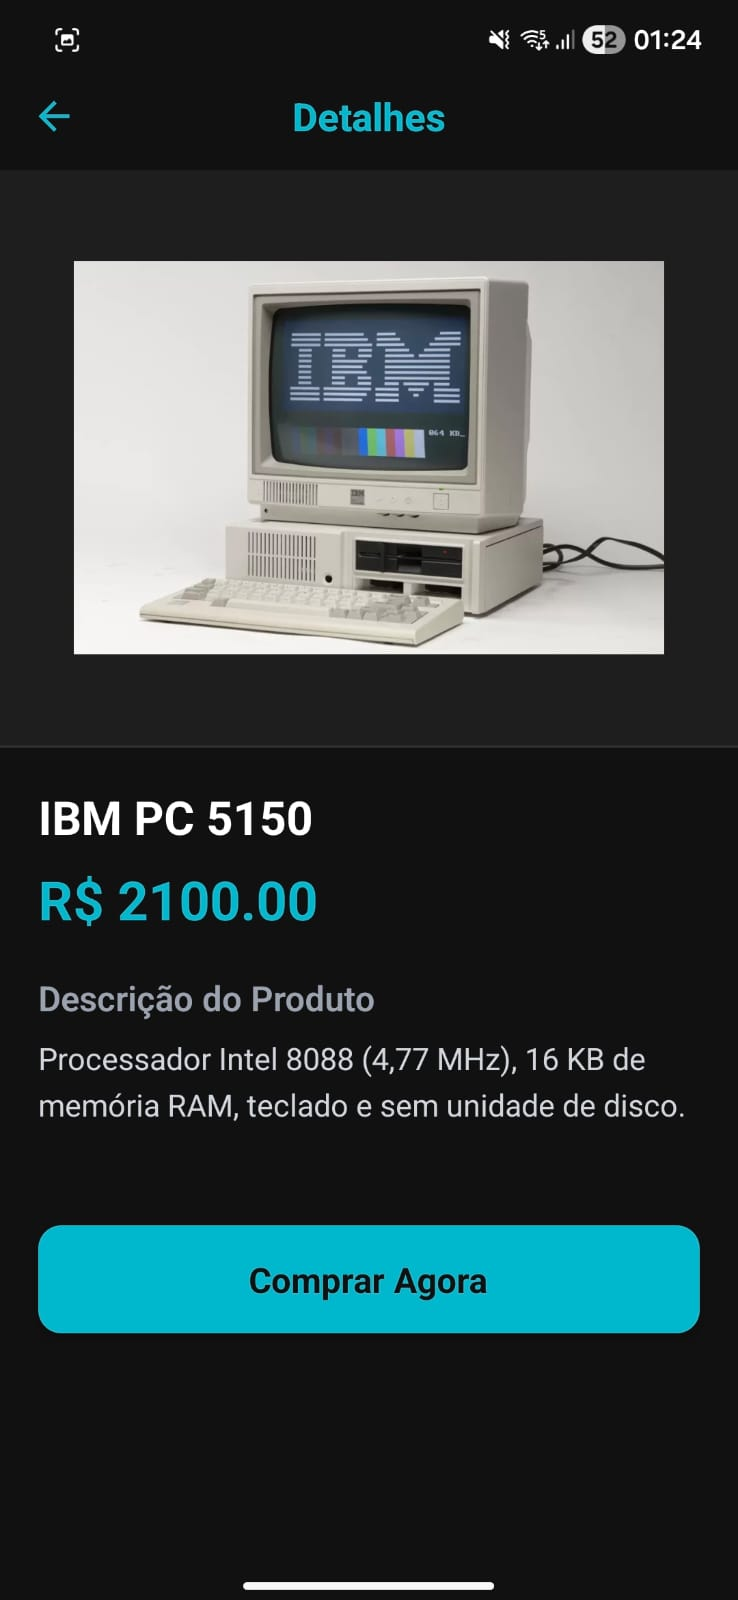
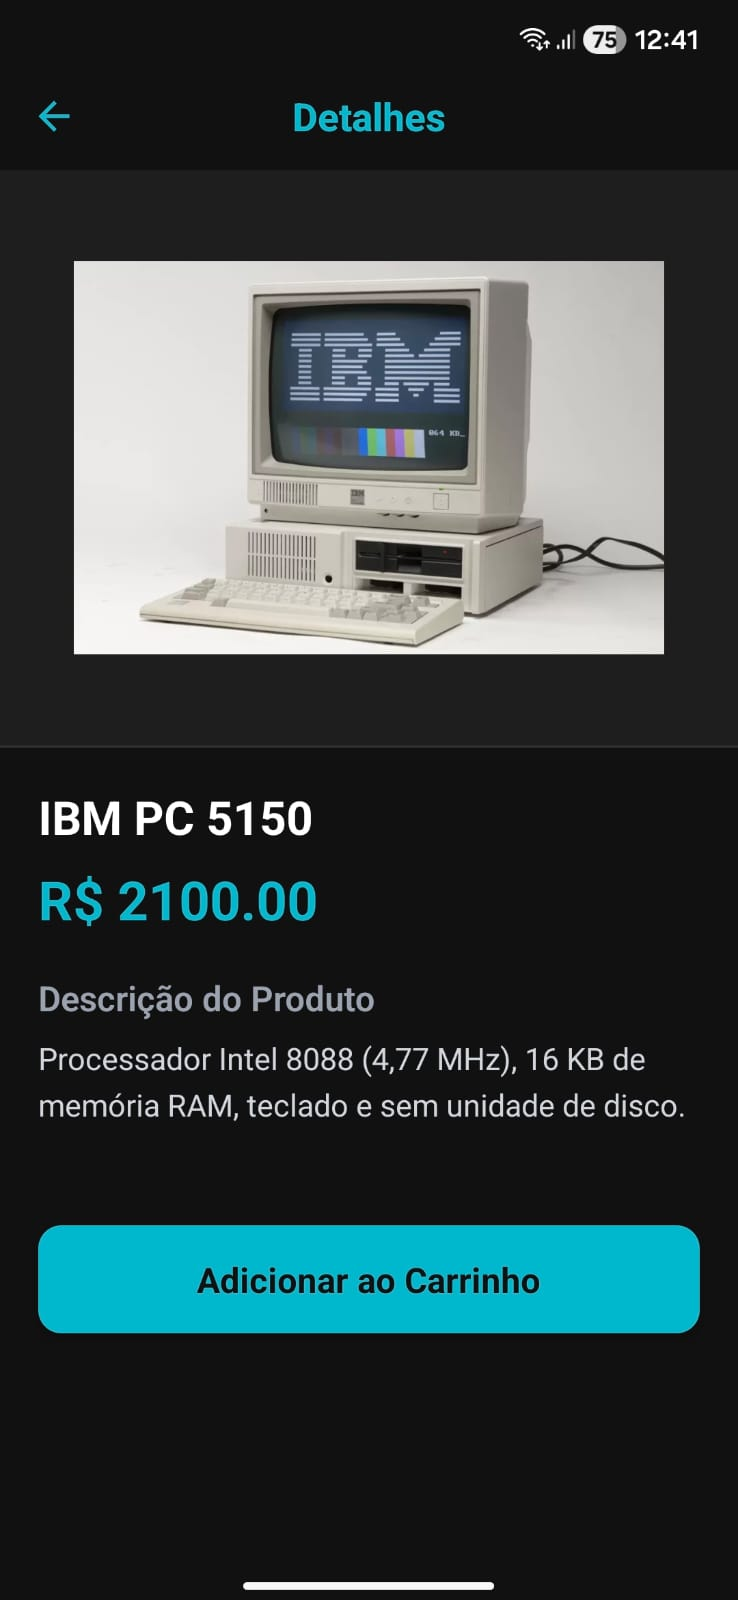
Novo botão de 'Carrinho' e atualização do README.md com as novas screenshots

Changed region(s): [[0.2493, 0.7812, 0.748, 0.8125], [0.6545, 0.0, 0.9661, 0.0312], [0.0623, 0.0, 0.0935, 0.0312]]

diff --git a/src/navigation/TabNavigator.js b/src/navigation/TabNavigator.js
@@ -6,6 +6,7 @@ import { Ionicons } from '@expo/vector-icons';
 import HomeScreen from '../screens/HomeScreen';
 import ListScreen from '../screens/ListScreen';
 import ProfileScreen from '../screens/ProfileScreen';
+import CartScreen from '../screens/CartScreen'; // <-- 1. Importamos o Carrinho
 
 const Tab = createBottomTabNavigator();
 
@@ -17,6 +18,7 @@ export default function TabNavigator() {
           let iconName;
           if (route.name === 'Home') iconName = focused ? 'home' : 'home-outline';
           else if (route.name === 'ProdutosTab') iconName = focused ? 'basket' : 'basket-outline';
+          else if (route.name === 'Carrinho') iconName = focused ? 'cart' : 'cart-outline'; // <-- 2. Adicionamos o ícone do Carrinho
           else if (route.name === 'Perfil') iconName = focused ? 'person' : 'person-outline';
 
           return <Ionicons name={iconName} size={size} color={color} />;
@@ -37,7 +39,7 @@ export default function TabNavigator() {
         },
 
         headerStyle: { 
-          backgroundColor: '#111111', // Fundo do header
+          backgroundColor: '#111111', 
           elevation: 0, 
           shadowOpacity: 0,
           borderBottomWidth: 1,
@@ -57,6 +59,12 @@ export default function TabNavigator() {
         name="ProdutosTab" 
         component={ListScreen} 
         options={{ headerTitle: 'Nossos Produtos', tabBarLabel: 'Produtos' }} 
+      />
+      {/* <-- 3. Adicionamos a aba do Carrinho aqui --> */}
+      <Tab.Screen 
+        name="Carrinho" 
+        component={CartScreen} 
+        options={{ headerTitle: 'Meu Carrinho', tabBarLabel: 'Carrinho' }} 
       />
       <Tab.Screen 
         name="Perfil" 
